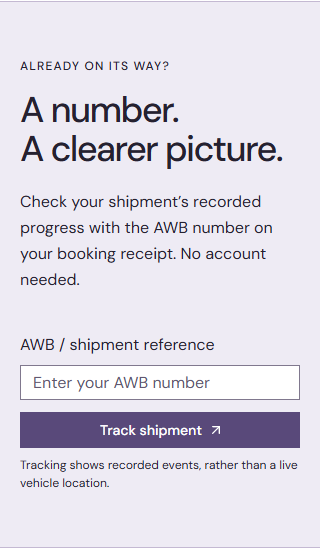
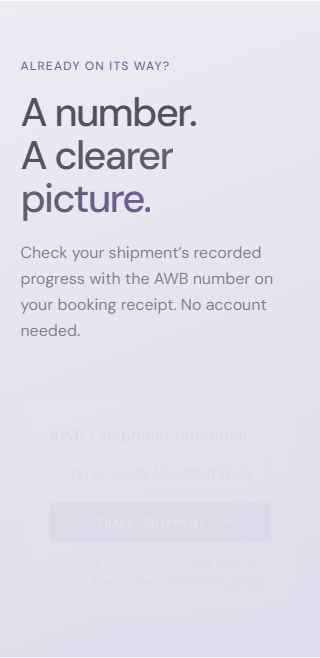
fix(storybook): resolve dynamic-rendering browser stubs and fix e2e contrast regressions

Changed region(s): [[0.0625, 0.0931, 0.875, 0.5274], [0.0625, 0.6204, 0.9375, 0.8996], [0.0, 0.9927, 1.0, 1.0]]

diff --git a/components/public/shipping-steps.tsx b/components/public/shipping-steps.tsx
@@ -4,6 +4,7 @@
 import { useRef, useState } from "react"
 import { useEffect } from "react"
 import { motion, useReducedMotion, AnimatePresence } from "motion/react"
+import { cn } from "@/lib/utils"
 import { bookingSteps } from "./shipping-content"
 import { VerticalRail, VerticalRailStep } from "./vertical-rail"
 
@@ -99,13 +100,10 @@ export function ShippingSteps() {
             </motion.p>
 
             {/* ── Step progress tracker ─────────────────────────────── */}
-            <motion.div
+            <div
               aria-live="polite"
               aria-atomic="true"
               className="animate-child mt-10 space-y-3"
-              initial={{ opacity: 0 }}
-              animate={{ opacity: 1 }}
-              transition={{ duration: 0.5, delay: 0.6 }}
             >
               {bookingSteps.map((step, i) => (
                 <button
@@ -130,19 +128,14 @@ export function ShippingSteps() {
                   />
 
                   {/* Step label */}
-                  <motion.span
-                    className="font-mono text-[10px] tracking-widest whitespace-nowrap"
-                    animate={{
-                      color:
-                        i === activeStep
-                          ? "var(--color-primary)"
-                          : "var(--color-foreground)",
-                      opacity: i === activeStep ? 1 : 0.7,
-                    }}
-                    transition={{ duration: 0.35 }}
+                  <span
+                    className={cn(
+                      "font-mono text-[10px] tracking-widest whitespace-nowrap transition-colors",
+                      i === activeStep ? "text-primary font-semibold" : "text-foreground"
+                    )}
                   >
                     {`0${i + 1}`}
-                  </motion.span>
+                  </span>
                 </button>
               ))}
 
@@ -163,7 +156,7 @@ export function ShippingSteps() {
                   )}
                 </AnimatePresence>
               </div>
-            </motion.div>
+            </div>
           </motion.div>
         </div>
 

diff --git a/.storybook/main.ts b/.storybook/main.ts
@@ -3,6 +3,8 @@ import type { StorybookConfig } from '@storybook/nextjs';
 
 const require = createRequire(import.meta.url);
 
+const webpack = require(require.resolve('webpack', { paths: [require.resolve('@storybook/nextjs')] }));
+
 const config: StorybookConfig = {
   stories: [
     '../stories/**/*.mdx',
@@ -53,6 +55,31 @@ const config: StorybookConfig = {
         'next/dist/client/components/unstable-rethrow.browser.js'
       ),
     };
+
+    config.plugins = config.plugins || [];
+    config.plugins.push(
+      new webpack.NormalModuleReplacementPlugin(
+        /navigation-dynamic-rendering(\.js)?$/,
+        require.resolve('next/dist/client/components/navigation-dynamic-rendering.browser.js')
+      ),
+      new webpack.NormalModuleReplacementPlugin(
+        /server-async-storage(\.js)?$/,
+        require.resolve('next/dist/client/components/server-async-storage.browser.js')
+      ),
+      new webpack.NormalModuleReplacementPlugin(
+        /instant-samples(\.js)?$/,
+        require.resolve('next/dist/client/components/instant-samples.browser.js')
+      ),
+      new webpack.NormalModuleReplacementPlugin(
+        /client-boundary-params(\.js)?$/,
+        require.resolve('next/dist/client/components/client-boundary-params.browser.js')
+      ),
+      new webpack.NormalModuleReplacementPlugin(
+        /unstable-rethrow(\.js)?$/,
+        require.resolve('next/dist/client/components/unstable-rethrow.browser.js')
+      )
+    );
+
     return config;
   },
 };

diff --git a/components/public/nav-client.tsx b/components/public/nav-client.tsx
@@ -125,25 +125,15 @@ export function NavDesktopLinks() {
   const currentIndicator = hoveredHref ?? activeHref
 
   return (
-    <motion.div
-      initial={shouldReduceMotion ? false : "hidden"}
-      animate="visible"
-      variants={{
-        hidden: {},
-        visible: { transition: { staggerChildren: shouldReduceMotion ? 0 : 0.07, delayChildren: shouldReduceMotion ? 0 : 0.2 } },
-      }}
+    <div
       className="hidden items-center gap-8 text-sm lg:flex"
       onMouseLeave={() => setHoveredHref(null)}
     >
       {links.map((link) => {
         const isActive = activeHref === link.href
         return (
-          <motion.div
+          <div
             key={link.href}
-            variants={{
-              hidden: { opacity: 0, y: shouldReduceMotion ? 0 : -10 },
-              visible: { opacity: 1, y: 0, transition: { duration: shouldReduceMotion ? 0 : 0.45, ease: "easeOut" } },
-            }}
             className="relative py-1"
             onMouseEnter={() => setHoveredHref(link.href)}
             onFocus={() => setHoveredHref(link.href)}
@@ -175,10 +165,10 @@ export function NavDesktopLinks() {
                 aria-hidden="true"
               />
             )}
-          </motion.div>
+          </div>
         )
       })}
-    </motion.div>
+    </div>
   )
 }
 

diff --git a/components/public/home-hero.tsx b/components/public/home-hero.tsx
@@ -135,9 +135,9 @@ export function HomeHero() {
               variants={fadeUp}
               custom={dur(0.15)}
             >
-              RAPID TRACE,
+              Your world.
               <br />
-              <span className="text-primary">CLEAR</span> PATHS
+              <span className="text-primary">On the move.</span>
             </motion.h1>
 
             {/* Subtitle */}

diff --git a/components/public/track-form.tsx b/components/public/track-form.tsx
@@ -74,7 +74,6 @@ export function TrackForm({ variant = "inline", className, ...props }: TrackForm
                 name="awb"
                 required
                 maxLength={40}
-                pattern="^[A-Za-z0-9\-]{5,40}$"
                 autoComplete="off"
                 placeholder={placeholder}
                 aria-describedby="home-awb-help"
